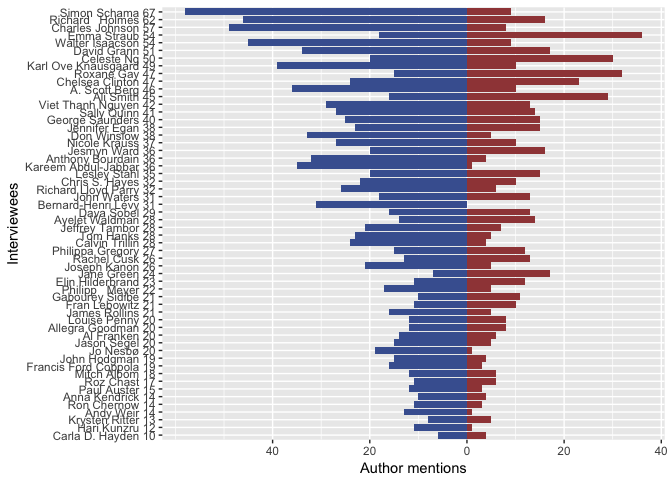
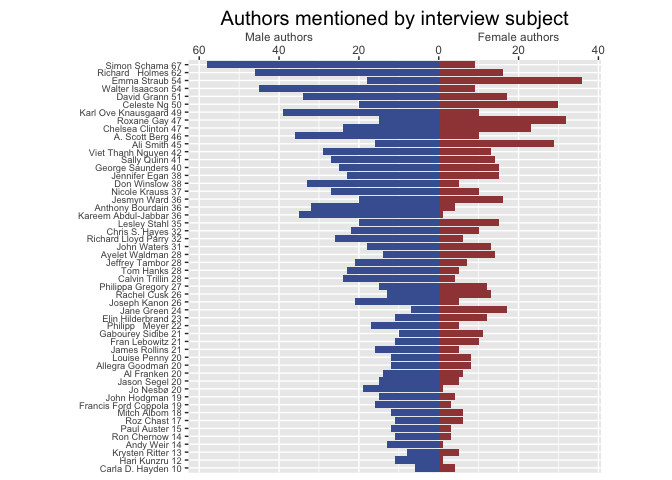
narrowed to 2017 only

diff --git a/btb.md b/btb.md
@@ -1,17 +1,17 @@
 New York Times "By The Book" Interviews
 ---------------------------------------
 
-Interview dates: **December 1, 2016 - December 28, 2017**
+Interview dates: **January 5, 2017 - December 28, 2017**
 
-Total interviews: **56**
+Total interviews: **52**
 
-Total unique authors mentioned: **1287**
+Total unique authors mentioned: **1199**
 
 The New York Times Book Review's "By the Book" feature is a weekly interview exploring reading habits past, present, and planned. The interviews yield author recommendations - an average of **31** authors mentioned by name in each interview. The dataset analyzed below is a result of code that looks at the text of each interview, identifies strings of text that look like author names, and verifies them by looking for corresponding names in the Goodreads author database. The gender and birthdate information comes from the data in the Goodreads database, with missing data filled in from the authors' Wikipedia pages.
 
 ### Gender
 
-There were a total of **24** female interviewees and **32** male interviewees.
+There were a total of **22** female interviewees and **30** male interviewees.
 
 ![](btb_files/figure-markdown_github/unnamed-chunk-2-1.png)
 
@@ -19,21 +19,21 @@ Male interviewees are more likely to mention male authors. Female interviewees m
 
 ![](btb_files/figure-markdown_github/unnamed-chunk-3-1.png)
 
-But there is wide variation among interviewees in the total number of authors mentioned & in the gender split.
+But there is plenty of variation among interviewees in the total number of authors mentioned & in the gender split.
 
 ![](btb_files/figure-markdown_github/unnamed-chunk-4-1.png)
 
-Older interviewees are both more likely to be male (**63%** of male interviewees were born before 1960, vs **47%** of female interviewees) and more likely to have recommended a lower percentage of female authors.
+Older interviewees are both more likely to be male (**62%** of male interviewees were born before 1960, vs **47%** of female interviewees) and slightly more likely to have recommended a lower percentage of female authors.
 
 ![](btb_files/figure-markdown_github/unnamed-chunk-5-1.png)
 
 ### Frequently mentioned authors
 
-This data has a long tail - there are **1287** unique authors mentioned across the **56** interviews, and **1042** of them are only mentioned once. The most frequently mentioned authors are mentioned by a fifth of all interviewees. The chart below shows the most frequently mentioned authors, the number of times they were mentioned, and the dates they were mentioned.
+This data has a long tail - there are **1199** unique authors mentioned across the **52** interviews, and **979** of them are only mentioned once. The most frequently mentioned authors are mentioned by a fifth of all interviewees. The chart below shows the most frequently mentioned authors, the number of times they were mentioned, and the dates they were mentioned.
 
 ![](btb_files/figure-markdown_github/unnamed-chunk-6-1.png)
 
-Below we can see instances where two interviewees mentioned the same author. Note that although some interviewees mentioned dozens of authors, the maximum overlap in authors mentioned between any two interviewees was **6**.
+Below we can see instances where two interviewees mentioned the same author. Note that although some interviewees mentioned dozens of authors, the maximum overlap in authors mentioned between any two interviewees was **5**.
 
 ![](btb_files/figure-markdown_github/unnamed-chunk-8-1.png)
 
